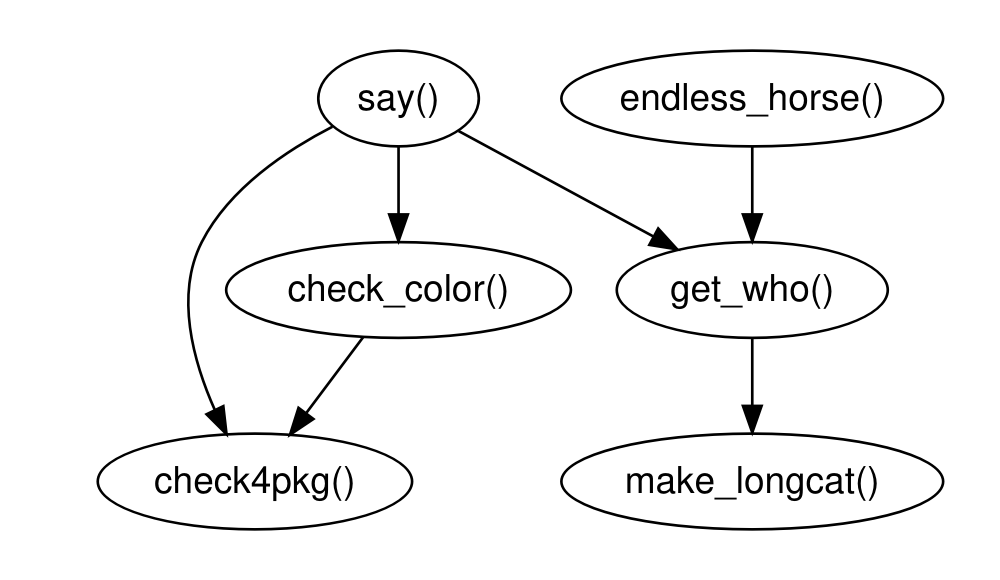
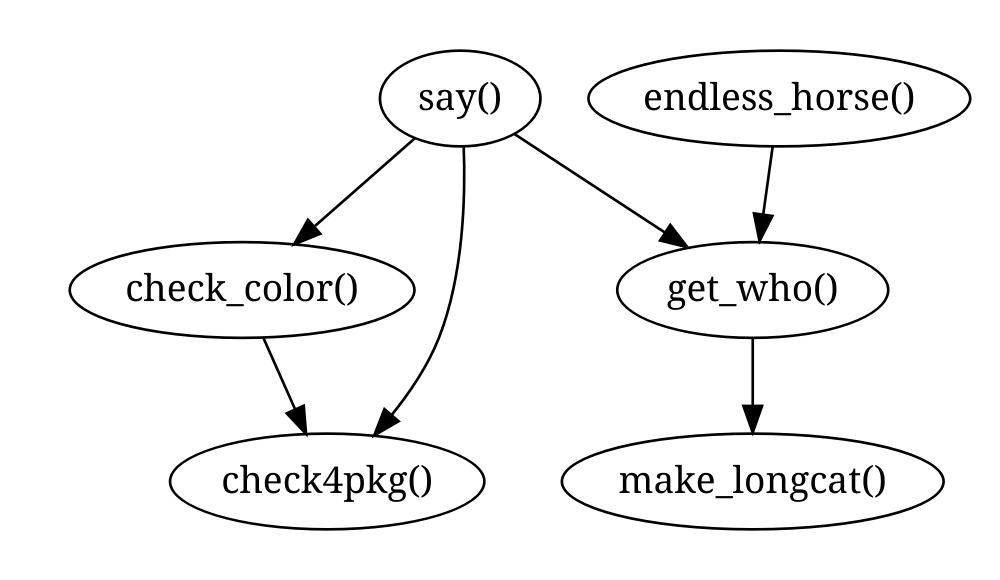
Update README and add NEWS.md

diff --git a/README.md b/README.md
@@ -4,7 +4,6 @@
 # foodwebr
 
 <!-- badges: start -->
-
 <!-- badges: end -->
 
 `foodwebr` makes it easy to visualise the dependency graph of a set of
@@ -27,8 +26,6 @@ which call each other:
 
 ``` r
 library(foodwebr)
-#> Warning: replacing previous import 'vctrs::data_frame' by 'tibble::data_frame'
-#> when loading 'dplyr'
 
 f <- function() 1
 g <- function() f()
@@ -129,12 +126,21 @@ if (requireNamespace("cowsay", quietly = TRUE)) {
 
 <img src="man/figures/README-foodweb-plot-package-no-filter-1.png" width="100%" />
 
-### `graphviz` as text
+### Extra `graphviz` options
 
 In case you want to do something with the
 [graphviz](https://graphviz.org/) output (make it prettier, for
-example), use `as.text = TRUE`. This returns the graphviz specification
-as a character vector.
+example), you can pass additional arguments to `plot()`. These will be
+passed directly to `DiagrammeR::grViz()`.
+
+``` r
+fw <- foodweb(cowsay::say)
+plot(fw, engine="circo")
+```
+
+<img src="man/figures/README-foodweb-grviz-options-1.png" width="100%" />
+
+### Foodweb as text
 
 ``` r
 foodweb(as.text = TRUE)
@@ -166,7 +172,7 @@ if (requireNamespace("tidygraph", quietly = TRUE)) {
 #> #
 #> # A directed multigraph with 2 components
 #> #
-#> # Node Data: 5 x 1 (active)
+#> # Node Data: 5 × 1 (active)
 #>   name 
 #>   <chr>
 #> 1 f    
@@ -175,7 +181,7 @@ if (requireNamespace("tidygraph", quietly = TRUE)) {
 #> 4 i    
 #> 5 j    
 #> #
-#> # Edge Data: 7 x 2
+#> # Edge Data: 7 × 2
 #>    from    to
 #>   <int> <int>
 #> 1     2     1
@@ -190,10 +196,10 @@ Understanding the algorithm is important as there are some key
 limitations to be aware of. To identify the relationships between
 functions, `foodwebr`:
 
-  - Lists all the functions in an environment.
-  - Tokenises the `body()` of each function.
-  - Compares each token against the list of function names.
-  - If a token matches a function name, (i.e. the name of function B
+-   Lists all the functions in an environment.
+-   Tokenises the `body()` of each function.
+-   Compares each token against the list of function names.
+-   If a token matches a function name, (i.e. the name of function B
     appears in the body of function A), records a link from A to B.
 
 This last point leads to the possibility of name masking, where a
@@ -228,10 +234,9 @@ If you know how to fix this please leave a comment in
 
 `foodwebr` is similar to these functions/packages:
 
-  - [`mvbutils::foodweb()`](): The OG of function dependency graphs in
+-   [`mvbutils::foodweb()`](): The OG of function dependency graphs in
     R, and the inspiration for foodwebr. Less user-friendly output, in
-    my
-    opinion.
-  - [`DependenciesGraphs`](https://github.com/datastorm-open/DependenciesGraphs):
+    my opinion.
+-   [`DependenciesGraphs`](https://github.com/datastorm-open/DependenciesGraphs):
     Provides much nicer visualisations but does not appear to be
     actively maintained.

diff --git a/NEWS.md b/NEWS.md
@@ -1,0 +1,8 @@
+# foodwebr 0.1.2
+
+* `plot.foodweb()` now passes ellipsis arguments to `DiagrammeR::grViz()` (@SigurdJanson)
+
+
+# foodwebr 0.1.1
+
+* First release
